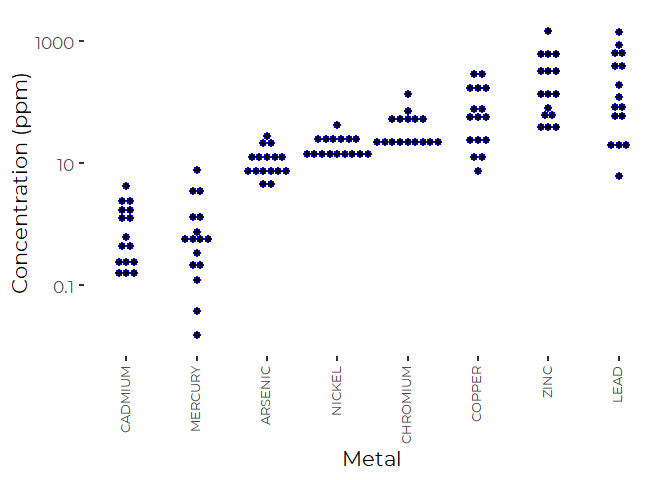
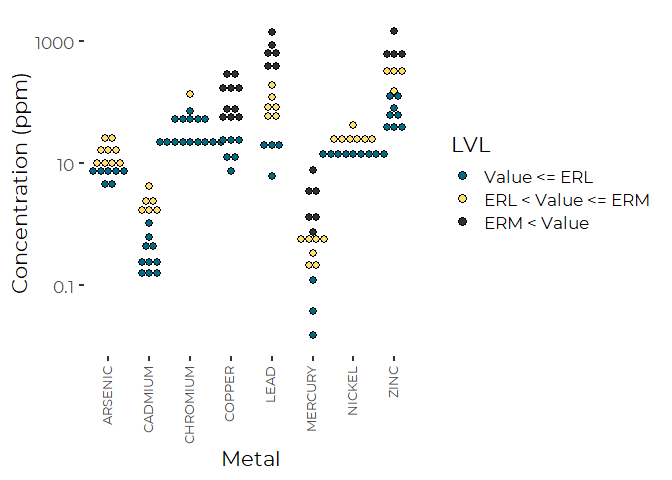
Correct error on units of SQUIRTs.

diff --git a/Analysis/Metals_handling_NDs.md b/Analysis/Metals_handling_NDs.md
@@ -1,21 +1,19 @@
-Exploratory analysis of Sediment Toxicity Data : Metals
+Exploratory Analysis of Sediment Toxicity Data : Metals
 ================
 Curtis C. Bohlen, Casco Bay Estuary Partnership
 7/16/2020
 
-  - [Install Libraries](#install-libraries)
-  - [Load Basic Data](#load-basic-data)
-  - [Chemical Parameters](#chemical-parameters)
-  - [Extract Metals Data Only](#extract-metals-data-only)
-  - [We Have NO Non-detects](#we-have-no-non-detects)
-  - [Initial graphics](#initial-graphics)
-      - [Pairs Plot](#pairs-plot)
-      - [Metals by Samples](#metals-by-samples)
-  - [Load Screening Values Data](#load-screening-values-data)
-      - [Convert to a look-up table](#convert-to-a-look-up-table)
-  - [Final Plot](#final-plot)
-      - [Add Screaning Levels to Plot](#add-screaning-levels-to-plot)
-  - [Conclusion](#conclusion)
+-   [Install Libraries](#install-libraries)
+-   [Load Basic Data](#load-basic-data)
+-   [Chemical Parameters](#chemical-parameters)
+-   [Extract Metals Data Only](#extract-metals-data-only)
+-   [We Have NO Non-detects](#we-have-no-non-detects)
+-   [Initial graphics](#initial-graphics)
+    -   [Pairs Plot](#pairs-plot)
+    -   [Metals by Samples](#metals-by-samples)
+-   [Load Screening Values Data](#load-screening-values-data)
+    -   [Convert to a look-up table](#convert-to-a-look-up-table)
+-   [Final Plot](#final-plot)
 
 <img
   src="https://www.cascobayestuary.org/wp-content/uploads/2014/04/logo_sm.jpg"
@@ -28,14 +26,14 @@ library(readxl)
 library(tidyverse)
 ```
 
-    ## -- Attaching packages --------------------------------------------- tidyverse 1.3.0 --
+    ## -- Attaching packages --------------------------------------- tidyverse 1.3.0 --
 
-    ## v ggplot2 3.3.2     v purrr   0.3.4
-    ## v tibble  3.0.3     v dplyr   1.0.0
-    ## v tidyr   1.1.0     v stringr 1.4.0
-    ## v readr   1.3.1     v forcats 0.5.0
+    ## v ggplot2 3.3.3     v purrr   0.3.4
+    ## v tibble  3.0.5     v dplyr   1.0.3
+    ## v tidyr   1.1.2     v stringr 1.4.0
+    ## v readr   1.4.0     v forcats 0.5.0
 
-    ## -- Conflicts ------------------------------------------------ tidyverse_conflicts() --
+    ## -- Conflicts ------------------------------------------ tidyverse_conflicts() --
     ## x dplyr::filter() masks stats::filter()
     ## x dplyr::lag()    masks stats::lag()
 
@@ -68,12 +66,14 @@ load_cbep_fonts()
 # Load Basic Data
 
 ``` r
-sibfldnm <- 'Derived_Data'
+sibfldnm <- 'Original_Data'
+niecefldnm <- 'Final_Data_Transmittal'
 parent <- dirname(getwd())
-sibling <- file.path(parent,sibfldnm)
-fn <- 'working_data.xls'
+niece = file.path(parent,sibfldnm, niecefldnm)
 
-the_data <- read_excel(paste(sibling,fn, sep='/'), 
+fn <- "draft_Combined_data_20190917.xls"
+
+the_data <- read_excel(paste(niece, fn, sep='/'), 
     sheet = "Combined", col_types = c("skip", 
         "text", "skip", "skip", "skip", 
         "skip", "skip", "skip", "skip", 
@@ -96,7 +96,7 @@ the_data <- read_excel(paste(sibling,fn, sep='/'),
 # Chemical Parameters
 
 ``` r
-metals.names <- read_excel(paste(sibling,fn, sep='/'), sheet = "Metals", skip = 3) %>%
+metals.names <- read_excel(file.path(niece,fn), sheet = "Metals", skip = 3) %>%
   select(1) %>%
   slice(1:8) #%>%
 ```
@@ -146,7 +146,7 @@ metals_data_long <- the_data %>%
             censored = sum(LAB_QUALIFIER=='U', na.rm=TRUE))
 ```
 
-    ## `summarise()` regrouping output by 'SAMPLE_ID' (override with `.groups` argument)
+    ## `summarise()` has grouped output by 'SAMPLE_ID'. You can override using the `.groups` argument.
 
 ``` r
 metals_data <- metals_data_long %>%
@@ -164,6 +164,11 @@ any(metals_data_long$censored>0)
 ```
 
     ## [1] FALSE
+
+``` r
+metals_data_long <- metals_data_long %>% select(-censored)
+metals_data <- metals_data %>% select(-censored)
+```
 
 # Initial graphics
 
@@ -205,6 +210,10 @@ plt
 
 ![](Metals_handling_NDs_files/figure-gfm/plot_metals_%20by_samples-1.png)<!-- -->
 
+``` r
+rm(tmp)
+```
+
 # Load Screening Values Data
 
 The names in the screening values table have to exactly match the order
@@ -212,11 +221,19 @@ of levels for the Chemicals in the metals data if we want the final
 graphics to plot them in order.
 
 ``` r
+sibfldnm <- 'Derived_Data'
+parent <- dirname(getwd())
+sibling = file.path(parent, sibfldnm)
+
 fn= "Marine_Sediment_Screening_Values_simplified.xlsx"
- SQUIRTS <- read_excel(paste(sibling,fn, sep = '/')) %>%
+ SQUIRTS <- read_excel(file.path(sibling,fn)) %>%
    select(1:8) %>%
    filter(Chemical %in% names(metals_data)) %>%
-   mutate(Chemical = factor(Chemical)) #%>%
+   mutate(Chemical = factor(Chemical)) %>%
+   mutate(across(T20:AET, ~ .x / 1000)) # Convert units from PPB to PPM
+ 
+ 
+ #%>%
    #filter(! is.na(Chemical))
  
  SQUIRTS.LONG <- SQUIRTS %>%
@@ -236,8 +253,9 @@ indicator that shows whether specific measurements are above certain
 screening levels.
 
 our interest here focuses on the “Effects Range Low” and “Effects Range
-Medium” screening criteria. WE focus on those only because we have used
-them in the past.
+Medium” screening criteria. We focus on those only because we have used
+them in the past, for example, in the 2017 Ramboll Environ report on
+tocics in Casco Bay sediments.
 
 ``` r
 lookup <- SQUIRTS %>%
@@ -247,8 +265,8 @@ metals_data_long <- metals_data_long %>%
   mutate(ERL = lookup[PARAMETER_NAME, 'ERL']) %>%
   mutate(ERM = lookup[PARAMETER_NAME, 'ERM']) %>%
   mutate(LVL = factor(ifelse(is.na(ERL), 'N/A',
-                             ifelse(CONCENTRATION<=ERL, 'Value <= ERL',
-                                   ifelse(CONCENTRATION<=ERM,
+                             ifelse(CONCENTRATION <= ERL, 'Value <= ERL',
+                                   ifelse(CONCENTRATION <= ERM,
                                           'ERL < Value <= ERM','ERM < Value'))),
                       levels = c('N/A','Value <= ERL',
                                  'ERL < Value <= ERM','ERM < Value')))
@@ -257,7 +275,7 @@ metals_data_long <- metals_data_long %>%
 # Final Plot
 
 ``` r
-plt <- ggplot(tmp, aes(x = metals, y = Concentration)) +
+plt <- ggplot(metals_data_long, aes(x = PARAMETER_NAME, y = CONCENTRATION)) +
   # primary geom can be geom_boxplot,  geom_violin", Geom_point, or geom_dotplot
   # Combinations are also interesting. Note that I  turned off  display of
   # outliers in the boxlot code, which is appropriate if you overlay points.
@@ -266,11 +284,16 @@ plt <- ggplot(tmp, aes(x = metals, y = Concentration)) +
   #geom_violin() +
   #geom_point(size = 1, alpha = 0.5) +
   
-  geom_dotplot(binaxis='y', stackdir = "center",
-                dotsize = 0.75, color = 'blue1') +
+  geom_dotplot(mapping = aes(fill = LVL), binaxis='y', stackdir = "center",
+                dotsize = 0.75) +
  
   theme_cbep() +
-  theme(axis.text.x = element_text(size = 10, hjust= 1, vjust = 0.25, angle = 90)) + 
+  scale_fill_manual(values = cbep_colors()) +
+  
+  theme(axis.text.x = element_text(size = 10, 
+                                   hjust= 1, 
+                                   vjust = 0.25, 
+                                   angle = 90)) + 
   scale_y_log10(breaks = c(0.1, 10, 1000), labels = c('0.1', '10', '1000')) +
   xlab('Metal')+ ylab('Concentration (ppm)')
 plt
@@ -279,34 +302,3 @@ plt
     ## `stat_bindot()` using `bins = 30`. Pick better value with `binwidth`.
 
 ![](Metals_handling_NDs_files/figure-gfm/draft_dotplot-1.png)<!-- -->
-
-## Add Screaning Levels to Plot
-
-``` r
-plt + 
-  geom_point(data = SQUIRTS.LONG,
-             mapping = aes(x=Chemical, y=value, color = type), shape = 3)+
-  scale_color_manual(values = cbep_colors(), name = 'Criteria') +
-  scale_y_log10(breaks = c(0.1, 10, 1000, 100000),
-                labels = c('0.1', '10', '1000', '100,000'))
-```
-
-    ## Scale for 'y' is already present. Adding another scale for 'y', which will
-    ## replace the existing scale.
-
-    ## `stat_bindot()` using `bins = 30`. Pick better value with `binwidth`.
-
-![](Metals_handling_NDs_files/figure-gfm/revised_dotplot-1.png)<!-- -->
-
-``` r
-  # theme(legend.position = 'None')
-```
-
-So, absolutely consistently, metals levels are below relevant screening
-levels by an order of magnitude or more.
-
-# Conclusion
-
-All Metals are below Levels of Concern, by about an order of magnitude.
-So probably not worth showing on a graphic. Interest here may be
-increased if plots with high metals are also high in other contaminants.
